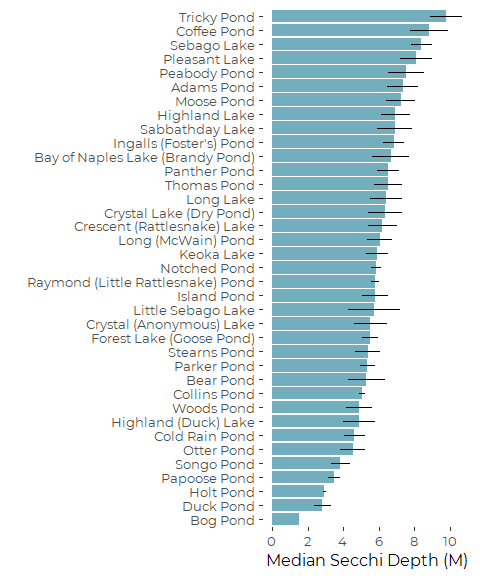
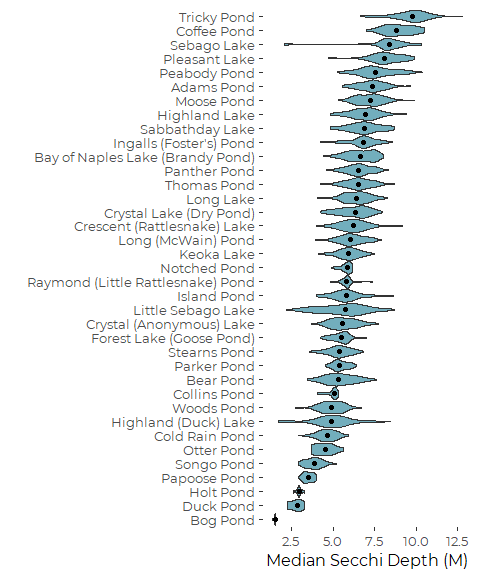
Minor edits

diff --git a/Graphics/Secchi_Recent_Graphics.md b/Graphics/Secchi_Recent_Graphics.md
@@ -37,14 +37,14 @@ Curtis C. Bohlen, Casco Bay Estuary Partnership
 library(tidyverse)
 ```
 
-    ## -- Attaching packages --------------------------------------- tidyverse 1.3.0 --
+    ## -- Attaching packages ---------------------------------------------------------------------------------- tidyverse 1.3.0 --
 
     ## v ggplot2 3.3.2     v purrr   0.3.4
     ## v tibble  3.0.3     v dplyr   1.0.2
     ## v tidyr   1.1.2     v stringr 1.4.0
     ## v readr   1.3.1     v forcats 0.5.0
 
-    ## -- Conflicts ------------------------------------------ tidyverse_conflicts() --
+    ## -- Conflicts ------------------------------------------------------------------------------------- tidyverse_conflicts() --
     ## x dplyr::filter() masks stats::filter()
     ## x dplyr::lag()    masks stats::lag()
 
@@ -267,25 +267,20 @@ Pond do not.
 
 ### List Ponds with Enough Data
 
-The ‘nsamplesrecent’ and ‘nsamplesall’ are equal here because we already
-filtered to data since 2008. But similar code also works for identifying
-data for trend analysis, so we keep it here.
-
 ``` r
 RecentLakesMIDAS <- secchi_data %>%
+  filter(Year > 2008) %>%
   group_by(MIDAS, Year) %>%
   summarize(Lake = first(Lake),
             Sampled = sum(! is.na(Secchi_Depth)),
             .groups = 'drop_last') %>%
   summarize(Lake = first(Lake),
-            nsamplesall = sum(Sampled),
-            nsamplesrecent = sum(Sampled[Year > 2008], na.rm=TRUE),
-            nyearsall = sum(Sampled[Year>2008] > 0),
-            nyearsrecent = sum(Sampled[Year>2008] > 0),
+            nsamples = sum(Sampled),
+            nyears = sum(Sampled > 0),
             .groups = 'drop_last') %>%
-  filter(nsamplesall > 4,
-         nyearsall > 4 ) %>%
-  arrange(-nsamplesall) %>%
+  filter(nsamples > 4,
+         nyears > 4 ) %>%
+  arrange(-nsamples) %>%
   pull(MIDAS)
 ```
 
@@ -371,7 +366,7 @@ plt <- secchi_data %>%
 plt
 ```
 
-![](Secchi_Recent_Graphics_files/figure-gfm/unnamed-chunk-13-1.png)<!-- -->
+![](Secchi_Recent_Graphics_files/figure-gfm/unnamed-chunk-12-1.png)<!-- -->
 
 ``` r
 ggsave('figures/current_secchi_bar.pdf', device = cairo_pdf,
@@ -400,7 +395,7 @@ plt <- secchi_data %>%
 plt
 ```
 
-![](Secchi_Recent_Graphics_files/figure-gfm/unnamed-chunk-14-1.png)<!-- -->
+![](Secchi_Recent_Graphics_files/figure-gfm/unnamed-chunk-13-1.png)<!-- -->
 
 ``` r
 ggsave('figures/current_secchi_violin.pdf', device = cairo_pdf,
@@ -508,7 +503,7 @@ plt
 
     ## Warning: Removed 3 rows containing missing values (geom_point).
 
-![](Secchi_Recent_Graphics_files/figure-gfm/unnamed-chunk-16-1.png)<!-- -->
+![](Secchi_Recent_Graphics_files/figure-gfm/unnamed-chunk-15-1.png)<!-- -->
 
 ``` r
   rm(tmp3)
@@ -564,7 +559,7 @@ oldpar <- par(mfrow = c(2,2))
 plot(the_lm)
 ```
 
-![](Secchi_Recent_Graphics_files/figure-gfm/unnamed-chunk-18-1.png)<!-- -->
+![](Secchi_Recent_Graphics_files/figure-gfm/unnamed-chunk-17-1.png)<!-- -->
 
 ``` r
 par(oldpar)
@@ -616,7 +611,7 @@ oldpar <- par(mfrow = c(2,2))
 plot(the_log_lm)
 ```
 
-![](Secchi_Recent_Graphics_files/figure-gfm/unnamed-chunk-20-1.png)<!-- -->
+![](Secchi_Recent_Graphics_files/figure-gfm/unnamed-chunk-19-1.png)<!-- -->
 
 ``` r
 par(oldpar)
@@ -669,7 +664,7 @@ oldpar <- par(mfrow = c(2,2))
 plot(weighted_log_lm)
 ```
 
-![](Secchi_Recent_Graphics_files/figure-gfm/unnamed-chunk-22-1.png)<!-- -->
+![](Secchi_Recent_Graphics_files/figure-gfm/unnamed-chunk-21-1.png)<!-- -->
 
 ``` r
 par(oldpar)
@@ -708,7 +703,7 @@ ggplot(tmp, aes(D_Mean_m, Median)) +
 
     ## Warning: Removed 1 rows containing missing values (geom_point).
 
-![](Secchi_Recent_Graphics_files/figure-gfm/unnamed-chunk-23-1.png)<!-- -->
+![](Secchi_Recent_Graphics_files/figure-gfm/unnamed-chunk-22-1.png)<!-- -->
 
 ``` r
 rm(df)
@@ -743,7 +738,7 @@ plt
 
     ## Warning: Removed 1 rows containing missing values (geom_point).
 
-![](Secchi_Recent_Graphics_files/figure-gfm/unnamed-chunk-24-1.png)<!-- -->
+![](Secchi_Recent_Graphics_files/figure-gfm/unnamed-chunk-23-1.png)<!-- -->
 
 ``` r
 ggsave('figures/current_secchi_by_depth.pdf', device = cairo_pdf,
@@ -775,4 +770,4 @@ plt
 
     ## Warning: Removed 1 rows containing missing values (geom_point).
 
-![](Secchi_Recent_Graphics_files/figure-gfm/unnamed-chunk-25-1.png)<!-- -->
+![](Secchi_Recent_Graphics_files/figure-gfm/unnamed-chunk-24-1.png)<!-- -->
